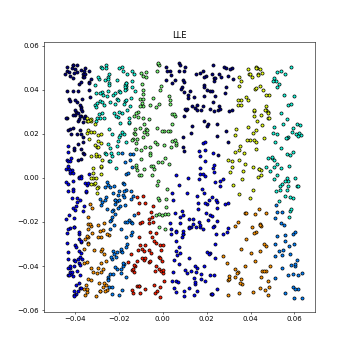
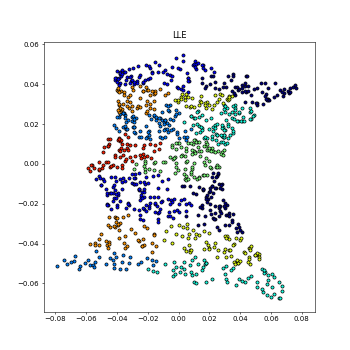
fix

diff --git a/draw.py b/draw.py
@@ -24,7 +24,7 @@ def plot_2d(X, label, title):
     plt.figure(figsize=(7, 7))
     plt.title("LLE")
     for l in np.unique(label):
-        plt.scatter(x_hlle[label == l, 0], x_hlle[label == l, 1],
+        plt.scatter(X[label == l, 0], X[label == l, 1],
                     color=plt.cm.jet(float(l) / np.max(label + 1)),
                     s=20, edgecolor='k')
     plt.savefig(title, dpi=50)
